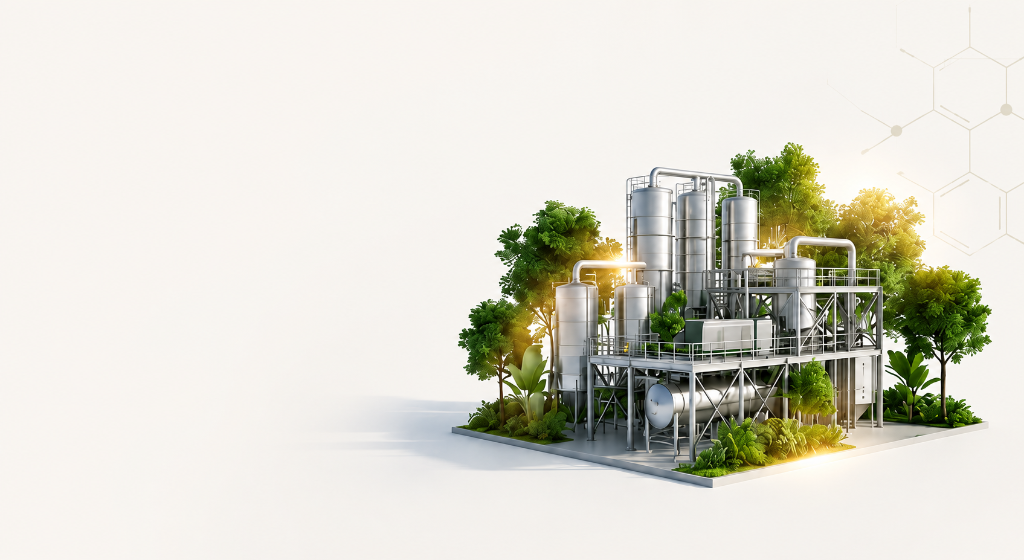
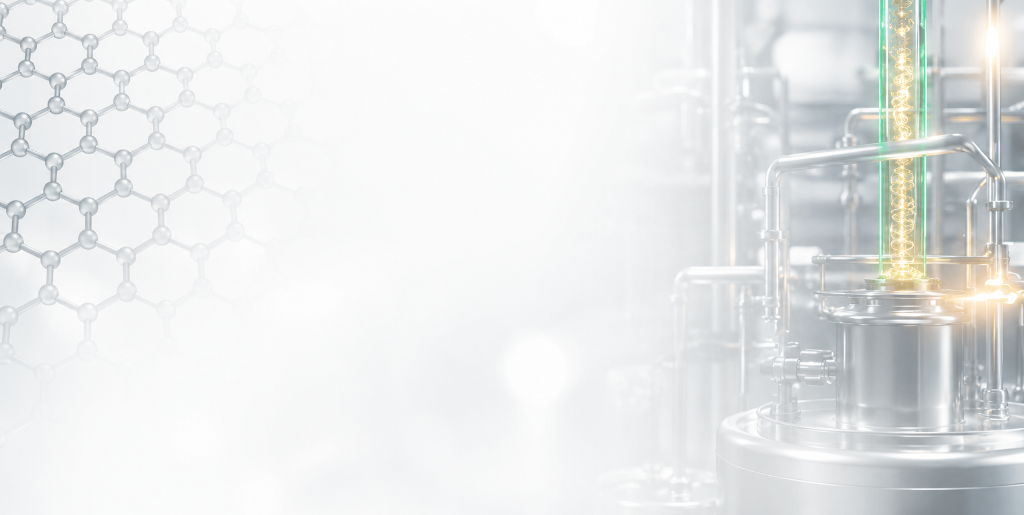
added images

diff --git a/src/components/Navbar.jsx b/src/components/Navbar.jsx
@@ -89,40 +89,22 @@ export default function Navbar() {
           aria-label="Main navigation"
           className="flex h-full w-full items-center justify-between px-6 sm:px-8"
         >
-          {/* ── Logo ── */}
+          {/* ── Logo ──────────────────────────────────── */}
           <a
             href="#hero"
-            className="flex items-center gap-2 group"
-            aria-label="Verdaez — go to homepage"
+            className="flex items-center gap-3 group"
+            aria-label="Ratnanjali Bioenergy — go to homepage"
           >
-            <svg
-              className="h-6 w-6 text-primary transition-transform duration-300 group-hover:scale-115"
-              viewBox="0 0 32 32"
-              fill="none"
-              aria-hidden="true"
-            >
-              <path
-                d="M16 2C16 2 6 10 6 20c0 5.523 4.477 10 10 10s10-4.477 10-10C26 10 16 2 16 2Z"
-                fill="currentColor"
-                opacity="0.1"
-              />
-              <path
-                d="M16 2C16 2 6 10 6 20c0 5.523 4.477 10 10 10s10-4.477 10-10C26 10 16 2 16 2Z"
-                stroke="currentColor"
-                strokeWidth="2"
-                strokeLinecap="round"
-                strokeLinejoin="round"
-              />
-              <path
-                d="M16 30V14"
-                stroke="currentColor"
-                strokeWidth="2"
-                strokeLinecap="round"
-              />
-            </svg>
-            <span className="font-heading text-lg font-bold tracking-tight text-primary select-none">
-              Verdaez
-            </span>
+            <img
+              src="/images/logo-icon.png"
+              alt="Ratnanjali Bioenergy Icon"
+              className="h-11 w-auto transition-transform duration-300 group-hover:scale-105"
+            />
+            <img
+              src="/images/logo-text.png"
+              alt="Ratnanjali Bioenergy"
+              className="h-6.5 w-auto hidden sm:block"
+            />
           </a>
 
           {/* ── Desktop links (Editorial layout) ── */}
@@ -338,7 +320,7 @@ export default function Navbar() {
 
         <div className="border-t border-outline-variant/30 px-8 py-5 bg-surface-container-low">
           <p className="text-xs text-on-surface-variant text-center select-none font-body">
-            © {new Date().getFullYear()} Verdaez Bioenergy
+            © {new Date().getFullYear()} Ratnanjali Bioenergy
           </p>
         </div>
       </aside>

diff --git a/src/components/Footer.jsx b/src/components/Footer.jsx
@@ -27,30 +27,17 @@ export default function Footer() {
           
           {/* ── Logo ── */}
           <div className="flex flex-col gap-3">
-            <a href="#hero" className="flex items-center gap-2.5 group" aria-label="Verdaez home">
-              <svg
-                className="h-8 w-8 text-surface-tint transition-transform duration-300 group-hover:scale-110"
-                viewBox="0 0 32 32"
-                fill="none"
-                aria-hidden="true"
-              >
-                <path
-                  d="M16 2C16 2 6 10 6 20c0 5.523 4.477 10 10 10s10-4.477 10-10C26 10 16 2 16 2Z"
-                  fill="currentColor"
-                  opacity="0.1"
-                />
-                <path
-                  d="M16 2C16 2 6 10 6 20c0 5.523 4.477 10 10 10s10-4.477 10-10C26 10 16 2 16 2Z"
-                  stroke="currentColor"
-                  strokeWidth="1.8"
-                  strokeLinecap="round"
-                  strokeLinejoin="round"
-                />
-                <path d="M16 30V14" stroke="currentColor" strokeWidth="1.8" strokeLinecap="round" />
-              </svg>
-              <span className="font-heading text-2xl font-normal tracking-tight text-primary select-none">
-                Verdaez
-              </span>
+            <a href="#hero" className="flex items-center gap-3 group" aria-label="Ratnanjali Bioenergy home">
+              <img
+                src="/images/logo-icon.png"
+                alt="Ratnanjali Bioenergy Icon"
+                className="h-11 w-auto transition-transform duration-300 group-hover:scale-105"
+              />
+              <img
+                src="/images/logo-text.png"
+                alt="Ratnanjali Bioenergy"
+                className="h-6.5 w-auto"
+              />
             </a>
           </div>
 
@@ -166,7 +153,7 @@ export default function Footer() {
         {/* ─── Bottom copyright ─── */}
         <div className="mt-14 pt-8 border-t border-outline-variant/35 flex flex-col sm:flex-row items-center justify-between gap-4">
           <p className="text-xs text-on-surface-variant font-body">
-            © {new Date().getFullYear()} Verdaez Technologies
+            © {new Date().getFullYear()} Ratnanjali Bioenergy Technologies
           </p>
           <div className="flex gap-4 text-xs text-on-surface-variant font-body">
             <a href="#" className="hover:text-primary transition-colors">Privacy</a>

diff --git a/index.html b/index.html
@@ -4,10 +4,10 @@
     <meta charset="UTF-8" />
     <link rel="icon" type="image/svg+xml" href="/vite.svg" />
     <meta name="viewport" content="width=device-width, initial-scale=1.0" />
-    <meta name="description" content="Verdaez Bioenergy — A scalable biorefinery platform converting agro-waste into fuel pellets, biochar, pyrolysis oil derivatives, carbon products and measurable climate impact." />
+    <meta name="description" content="Ratnanjali Bioenergy — A scalable biorefinery platform converting agro-waste into fuel pellets, biochar, pyrolysis oil derivatives, carbon products and measurable climate impact." />
     <meta name="keywords" content="biomass, bioenergy, biochar, pyrolysis, carbon materials, graphene, renewable fuels, circular economy, climate impact" />
-    <meta name="author" content="Verdaez Bioenergy Pvt. Ltd." />
-    <title>Verdaez Bioenergy — Biomass to Value. Circular Future.</title>
+    <meta name="author" content="Ratnanjali Bioenergy Pvt. Ltd." />
+    <title>Ratnanjali Bioenergy — Biomass to Value. Circular Future.</title>
     <link rel="preconnect" href="https://fonts.googleapis.com" />
     <link rel="preconnect" href="https://fonts.gstatic.com" crossorigin />
     <link href="https://fonts.googleapis.com/css2?family=Hanken+Grotesk:ital,wght@0,300;0,400;0,500;0,600;0,700;0,800;1,400&family=Libre+Caslon+Text:ital,wght@0,400;0,700;1,400&display=swap" rel="stylesheet" />

diff --git a/src/components/Hero.jsx b/src/components/Hero.jsx
@@ -107,7 +107,7 @@ export default function Hero() {
   return (
     <section
       id="hero"
-      className="relative min-h-screen pt-20 overflow-hidden bg-background"
+      className="relative min-h-screen pt-20 overflow-hidden bg-white"
     >
       {/* ===== Full Background Image ===== */}
       <div className="absolute inset-0">
@@ -115,8 +115,10 @@ export default function Hero() {
           src="/images/hero-bg-new.png"
           alt=""
           aria-hidden="true"
-          className="w-full h-full object-cover object-left"
+          className="w-full h-full object-cover object-center lg:object-right-bottom"
         />
+        {/* Subtle color contrast mask to ensure text legibility on all viewports, especially mobile */}
+        <div className="absolute inset-0 bg-white/40 lg:bg-transparent pointer-events-none" />
       </div>
 
       <div className="relative z-10 mx-auto max-w-7xl px-4 sm:px-6 lg:px-8">

diff --git a/src/components/ValueChain.jsx b/src/components/ValueChain.jsx
@@ -207,7 +207,7 @@ export default function ValueChain() {
               ${isVisible ? 'opacity-100 animate-fade-in-up delay-200' : ''}
             `}
           >
-            Verdaez bypasses commodity market price sensitivity. By structuring operations 
+            Ratnanjali Bioenergy bypasses commodity market price sensitivity. By structuring operations 
             into three cascading technology tiers, we capture immediate revenue streams 
             to fund proprietary high-margin, carbon-negative product refinement.
           </p>